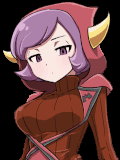
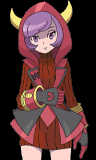
Updated graphics for Courtney

diff --git a/src/cutscene.c b/src/cutscene.c
@@ -34,7 +34,7 @@ static const u8 sBrendanNightBgPalette[] = INCBIN_U8("graphics/cutscene/fscutsce
 
 static const u8 sCourtneyBgTiles[] = INCBIN_U8("graphics/cutscene/fscutscene/courtney/courtney_tiles.8bpp");
 static const u8 sCourtneyBgMap[] = INCBIN_U8("graphics/cutscene/fscutscene/courtney/courtney_map.bin");
-static const u8 sCourtneyBgPalette[] = INCBIN_U8("graphics/cutscene/fscutscene/courtney/courtney.gbapal");
+static const u8 sCourtneyBgPalette[] = INCBIN_U8("graphics/cutscene/fscutscene/courtney/courtney_palette.gbapal");
 
 static const u8 sHeatranBgTiles[] = INCBIN_U8("graphics/cutscene/fscutscene/heatran/heatran_tiles.8bpp");
 static const u8 sHeatranBgMap[] = INCBIN_U8("graphics/cutscene/fscutscene/heatran/heatran_map.bin");
